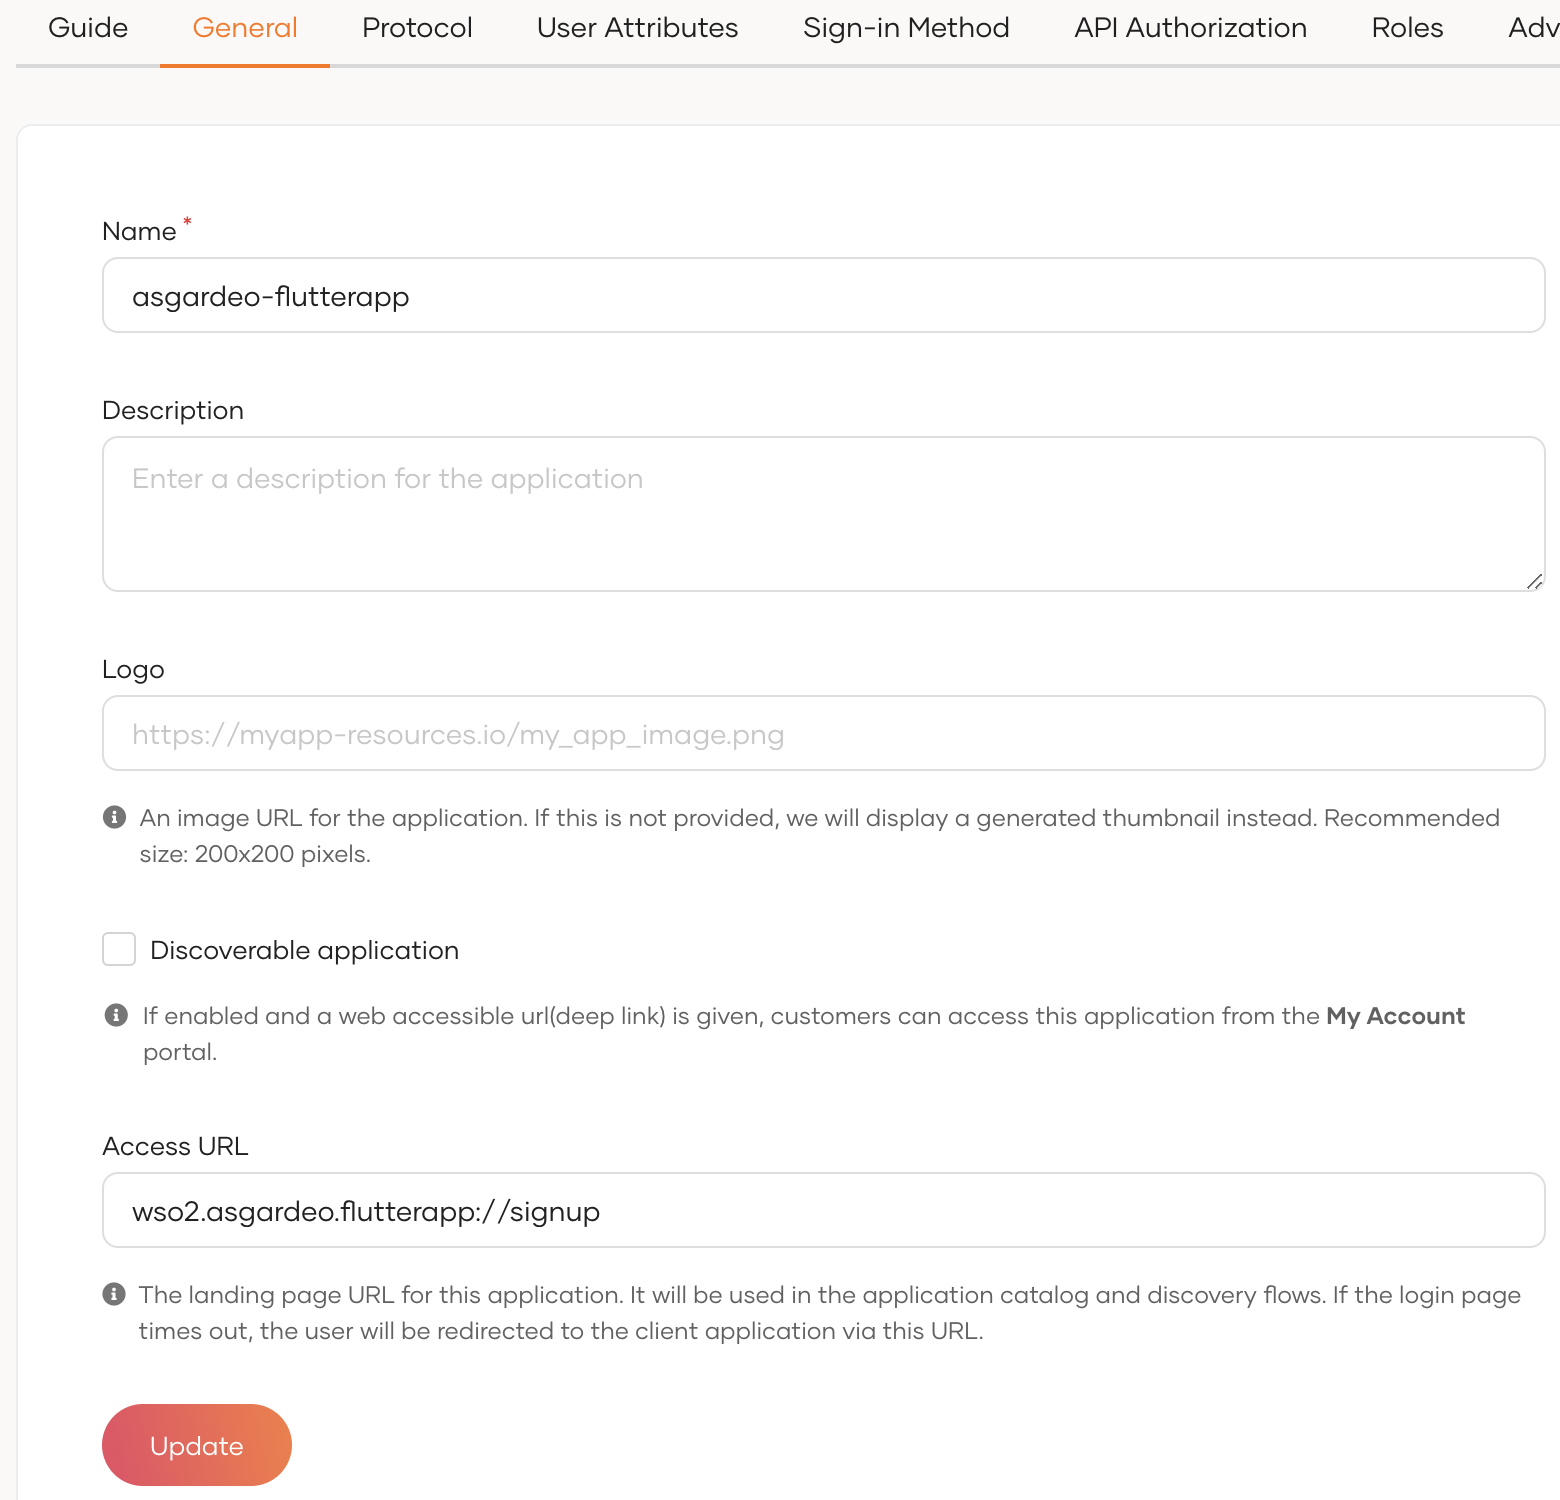
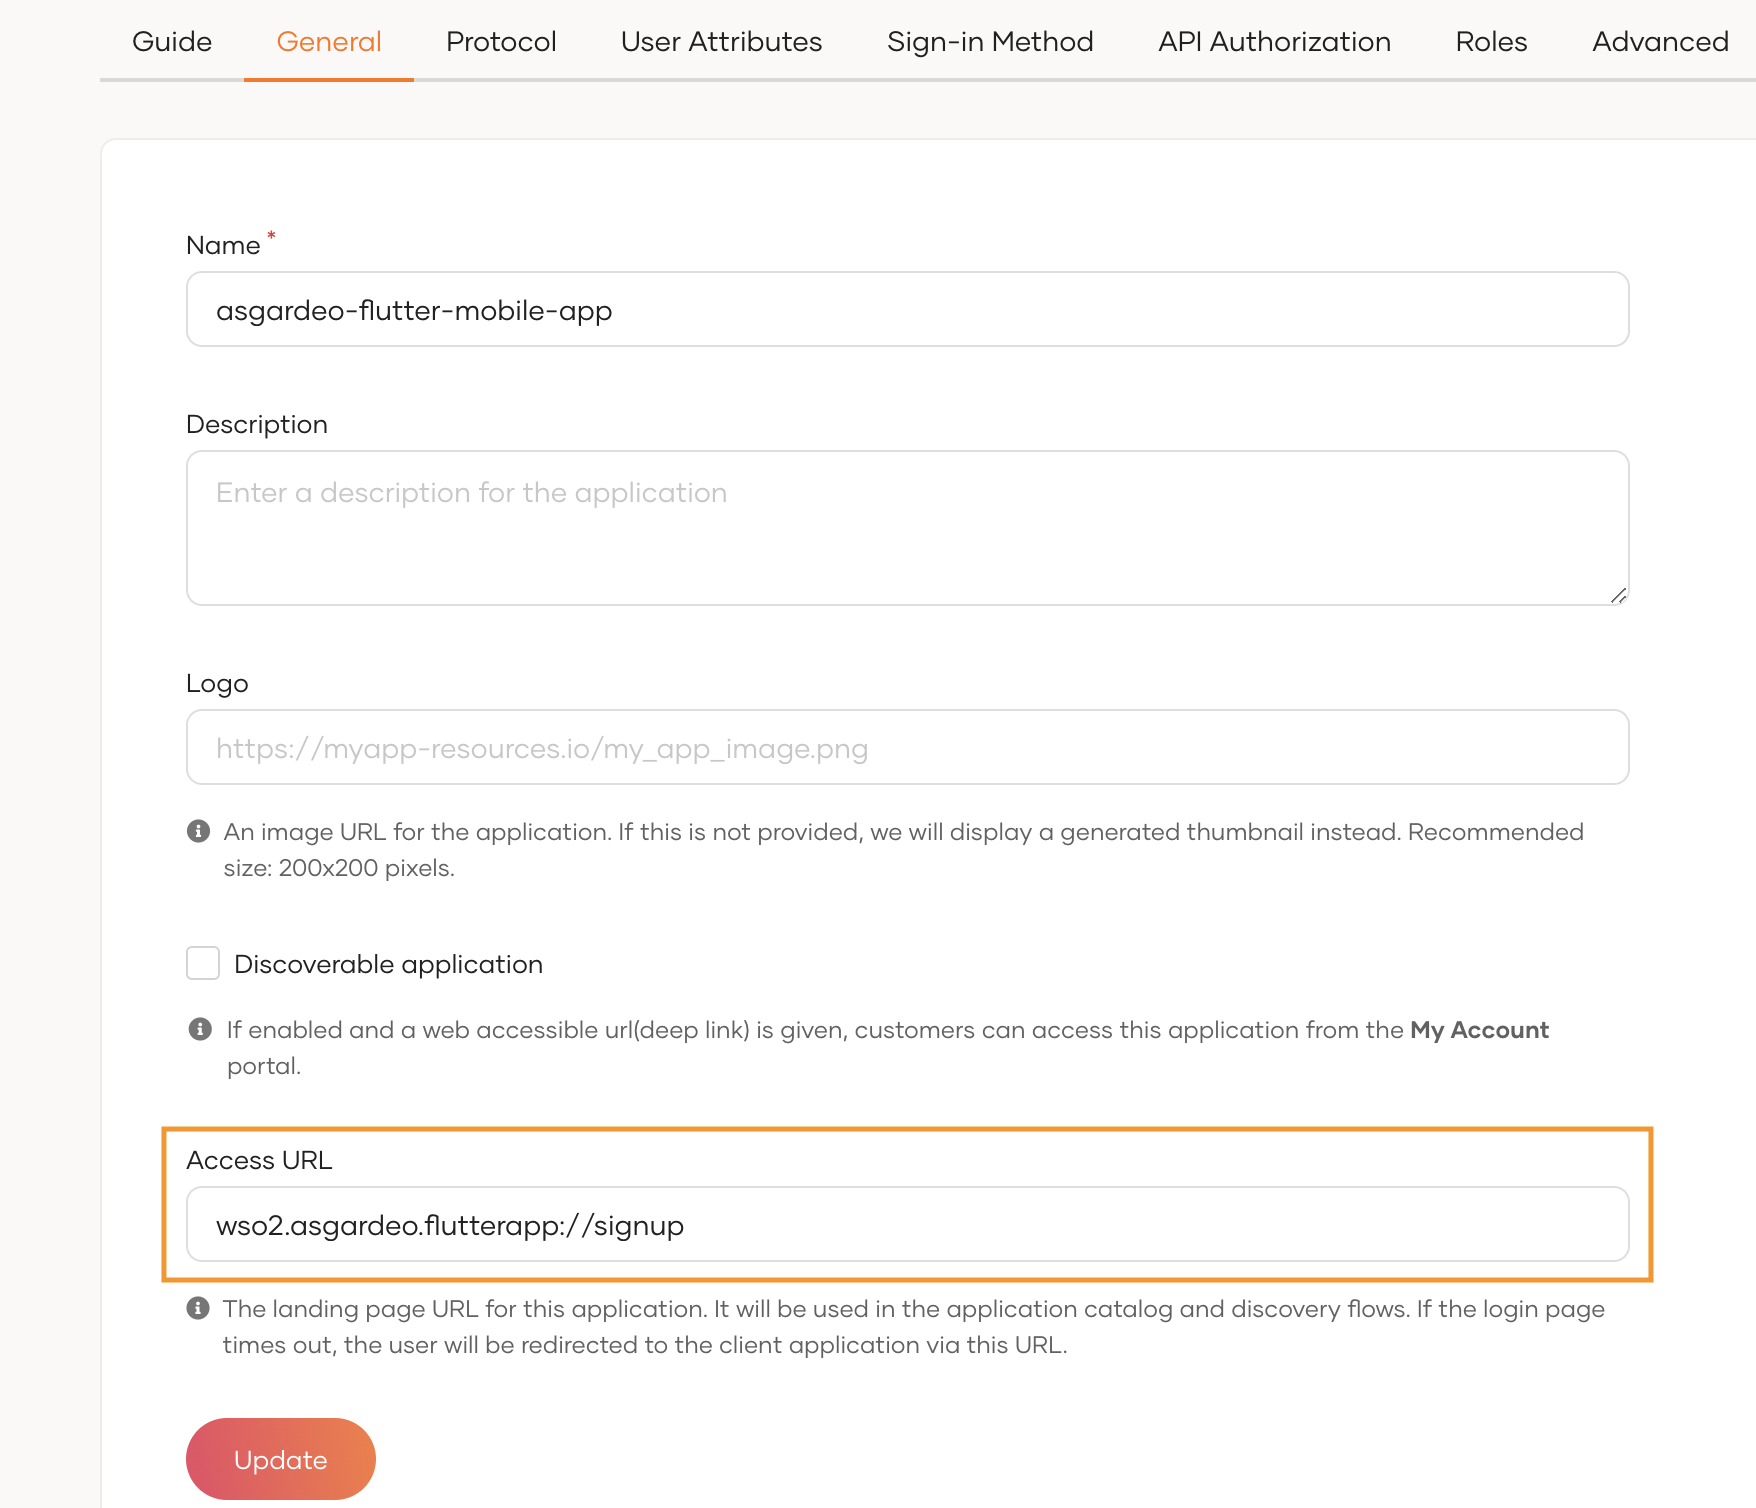
Update documentation

diff --git a/README.md b/README.md
@@ -1,13 +1,14 @@
 # Asgardeo Mobile Flutter Application
 A Flutter mobile application integrated with Asgardeo. This can be used as a reference implementation to build a mobile application with Flutter. 
-Developers can use this as a boilerplate to build an app from scratch or as a reference to find the respective code snippets
+Developers can use this as a boilerplate to build an app from scratch or as a reference to find the respective code snippets.
 
 ### Features
 - User sign-up
 - User sign-in
 - Sign-out
 - Secured External API calling
-- Edit and view the user profile
+- View the user profile
+- Edit the user profile
 
 ## Prerequisites
 
@@ -21,6 +22,10 @@ This application is tested with Flutter version **3.10.4** and following version
 `flutter_appauth` - 4.2.1
 
 `webview_flutter` - 4.2.2
+
+`provider` - 6.0.5
+
+`logger` - 2.0.1
 
 These dependencies and the versions are available at *asgardeo-flutter-boilerplate-app/pubspec.yaml* file.
 
@@ -43,7 +48,7 @@ You can use one of the following options to try out the mobile application
 ## Setup the Asgardeo Application
 1. Access Asgardeo at [https://console.asgardeo.io/](https://console.asgardeo.io/) and log in.
 2. Click **Applications** in left navigation menu and then select **Mobile Application**
-3. Create a new Mobile Application.
+3. Create a new Mobile Application. Fill the details and click **Register**.
    - Name: asgardeo-flutter-mobile-app
    - Authorized Redirect URLs: *wso2.asgardeo.flutterapp://login-callback* (Use the Add New option)
    
@@ -56,7 +61,7 @@ You can use one of the following options to try out the mobile application
    Make sure to select following user attributes
 - Country attribute  in Address
 - Mobile attribute in Phone
-- First Name, Last Name, and Photo Url attributes in Profile
+- First Name, Last Name, Photo Url, username attributes in Profile
 
 <img src="resources/images/user_attributes.png"  width="60%" height="50%">
 
@@ -67,7 +72,8 @@ openid address phone profile
 
 <img src="resources/images/scopes.png"  width="60%" height="50%">
 
-6. In Application configuration's General tab add *wso2.asgardeo.flutterapp://signup* as the Access URL. 
+6. Configure Access URL In Application’s General Tab.
+  **Access URL**: *wso2.asgardeo.flutterapp://signup*
 
 <img src="resources/images/accessURL.png"  width="60%" height="50%">
 
@@ -80,11 +86,11 @@ openid address phone profile
 2. Update configurations in the file `<project>/lib/configs/configs.dart` in the flutter project 
 
 ```
-const clientId = '<Application-client_id>';
-const redirectUrl = 'wso2.asgardeo.flutterapp://login-callback';
-const organizationName = '<Asgardeo-organization-name>';
-const spName = '<Application-name>';
-const externalAPIEndpoint = '<external-api-url>';
+const clientId = '<Application-client_id>'; // client Id of the application
+const redirectUrl = 'wso2.asgardeo.flutterapp://login-callback'; // application redirect url
+const organizationName = '<Asgardeo-organization-name>'; // your asgardeo organization name
+const spName = '<Application-name>'; // application name 
+const externalAPIEndpoint = '<external-api-url>'; // external sample rest api url here if you want to call a rest API with bearer access token
 const accessURL = 'wso2.asgardeo.flutterapp://signup'; // configured access URL
 
 //optional
@@ -100,3 +106,53 @@ The specified default photo in the above configs will be shown in the user profi
 4. Run the flutter application with the following command in flutter terminal
 
 `flutter run`
+
+## Build your own application
+
+When integrating this application as the base for your business application, you may need to make specific modifications to align it with your unique requirements. 
+This process may involve removing certain existing features and styles while introducing new styles and components tailored to your specific use cases.
+
+### Remove Styles and Add your own Styles
+
+Do Following value changes in `<project>/lib/configs/configs.dart` file as per your preference.
+
+- Set Primary Color - Change hexa value of **primaryColor** constant
+- Set Button Radius - Change button radius **buttonRadius** constant
+
+For other widget style changes, you need to change them from the relevant widgets.
+
+### Remove Components
+
+Steps to remove Edit User profile option available in this application.
+
+1. Remove Edit Profile button widget available in the View User Profile page. Then the app users will not have access to edit the profile.
+2. To remove source code, remove page Index condition for edit user profile page available in MyApp Class. 
+
+<project>/lib/pages/my_asgardeo_app.dart -> MyApp Class > build function > Scaffold widget > body
+
+Remove following condition
+
+```
+: pageIndex == AppConstants.editProfilePage
+            ? const SingleChildScrollView(child: EditProfilePage())
+```
+
+3. Remove import statements of <project>/lib/pages/edit_profile_page.dart of in <project>/lib/pages/my_asgardeo_app.dart
+`import 'edit_profile_page.dart';`
+
+4. Remove <project>/lib/pages/edit_profile_page.dart
+
+### Add New Components
+Steps to add a new component.
+
+1. Create a <new_page_name>.dart file in <project>/lib/pages.
+2. Import <new_page_name>.dart file to <project>/lib/pages/my_asgardeo_app.dart file
+3. Define page Index to new page in  <project>/lib/constants/app_constants.dart file
+  Example
+ `static const int editProfilePage = 5;`
+4. Add button widget to relevant existing page and upon clicking button set Page Index of the new page calling the `CurrentPage` provider.
+
+ For more details refer `CurrentPage` provider implementation in <project>/lib/providers/page.dart
+5. Add page Index to the existing conditional statement to render new page in 
+
+ <project>/lib/pages/my_asgardeo_app.dart > MyApp  Class > build function > Scaffold widget > body
